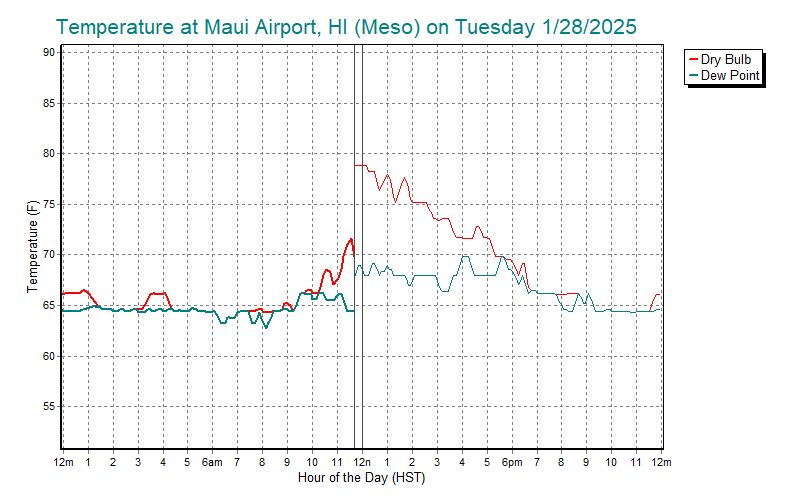
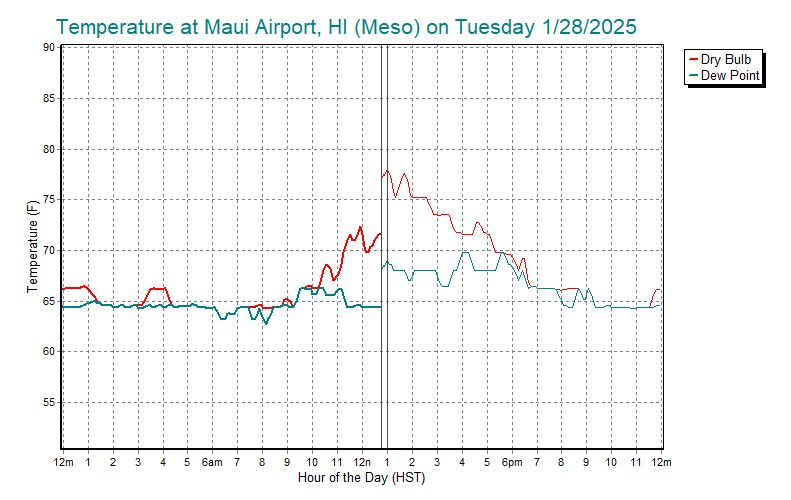
another update

diff --git a/charts.html b/charts.html
@@ -88,7 +88,7 @@
 	<p><b><font face="Arial" size="5">Samples from Rosy.asp</font></b></p>
    </div>
    <p><span>
-(24-hour charts updated Tuesday, January 28, 2025 at 04:00PM Central).
+(24-hour charts updated Tuesday, January 28, 2025 at 05:00PM Central).
    </span></p>
    <p>The orginal ASP page is named Rosy, a nickname windsurfers from the Tri-Cities gave Roosevelt, a sailing site on the east end of the Columbia River gorge.</p>
 	<p>This first pair of sample charts, wind and temperature, is updated every 

diff --git a/charts_input.html b/charts_input.html
@@ -88,7 +88,7 @@
 	<p><b><font face="Arial" size="5">Samples from Rosy.asp</font></b></p>
    </div>
    <p><span>
-(24-hour charts updated Tuesday, January 28, 2025 at 04:00PM Central).
+(24-hour charts updated Tuesday, January 28, 2025 at 05:00PM Central).
    </span></p>
    <p>The orginal ASP page is named Rosy, a nickname windsurfers from the Tri-Cities gave Roosevelt, a sailing site on the east end of the Columbia River gorge.</p>
 	<p>This first pair of sample charts, wind and temperature, is updated every 
